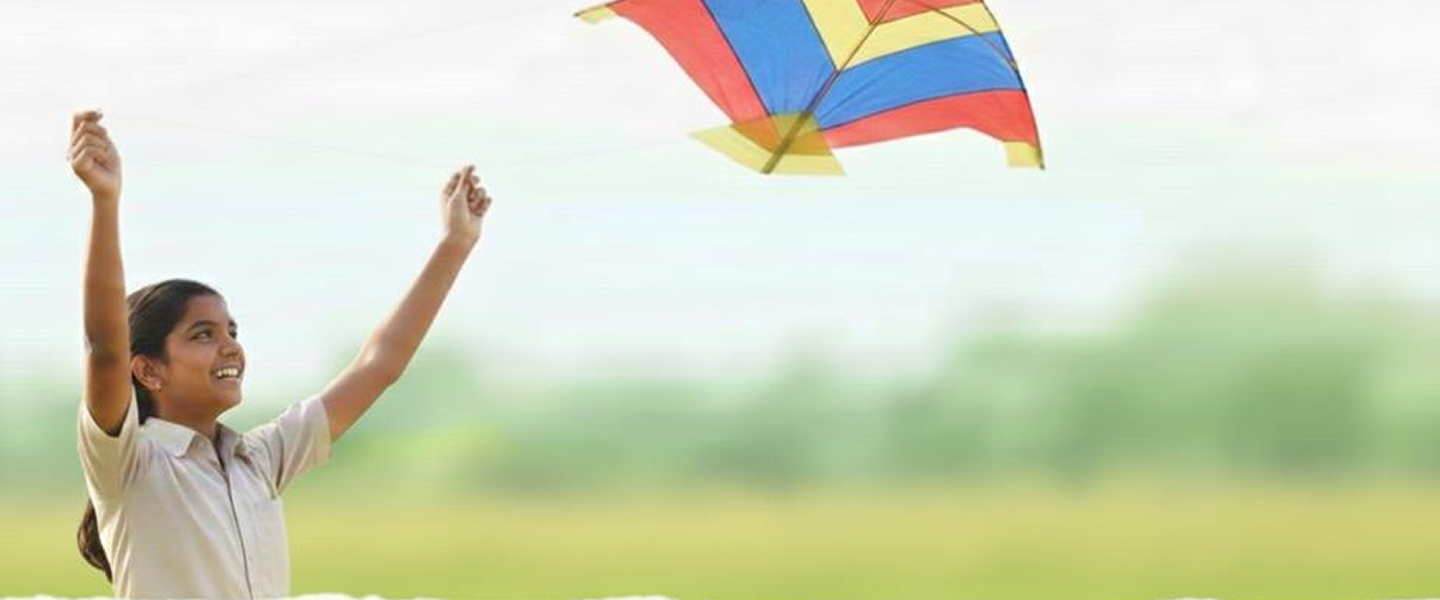
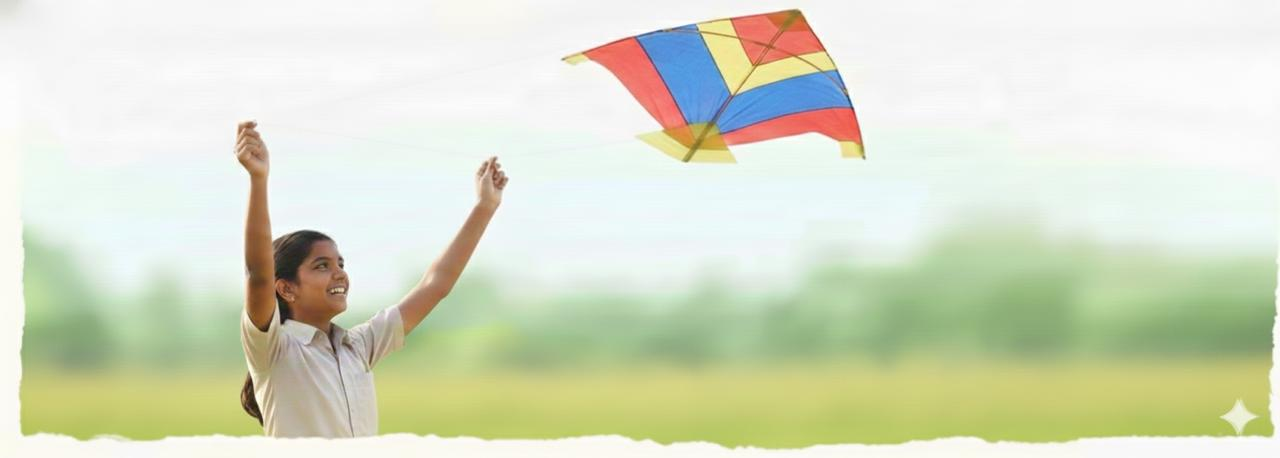
joinyoungvox changes

diff --git a/src/components/JoinYoung.jsx b/src/components/JoinYoung.jsx
@@ -26,12 +26,19 @@ const JoinYoung = () => {
       <Header />
 
       {/* Banner Section */}
-      <section ref={bannerRef} className="w-full relative">
+      <section ref={bannerRef} className="w-full relative overflow-hidden">
         <div className="relative w-full">
           <img
             src={joinBanner}
             alt="Join YoungVox Banner"
-            className="w-full h-auto object-cover"
+            className="w-full h-auto object-cover scale-110"
+            style={{ 
+              imageRendering: '-webkit-optimize-contrast',
+              WebkitImageRendering: '-webkit-optimize-contrast',
+              msInterpolationMode: 'bicubic'
+            }}
+            loading="eager"
+            decoding="async"
           />
 
           {/* Overlay Content - Right aligned on all screens */}
